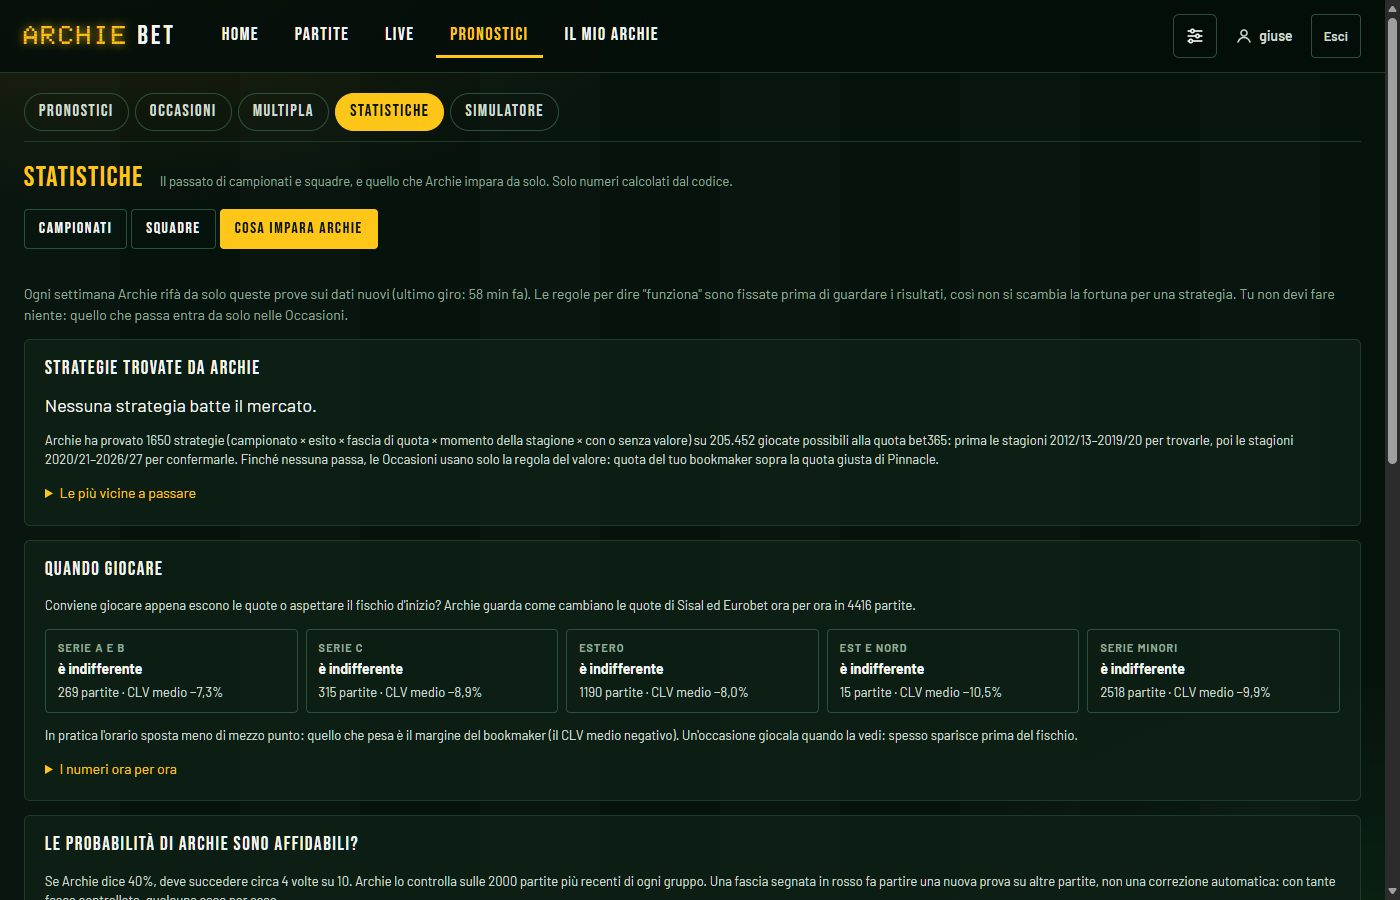
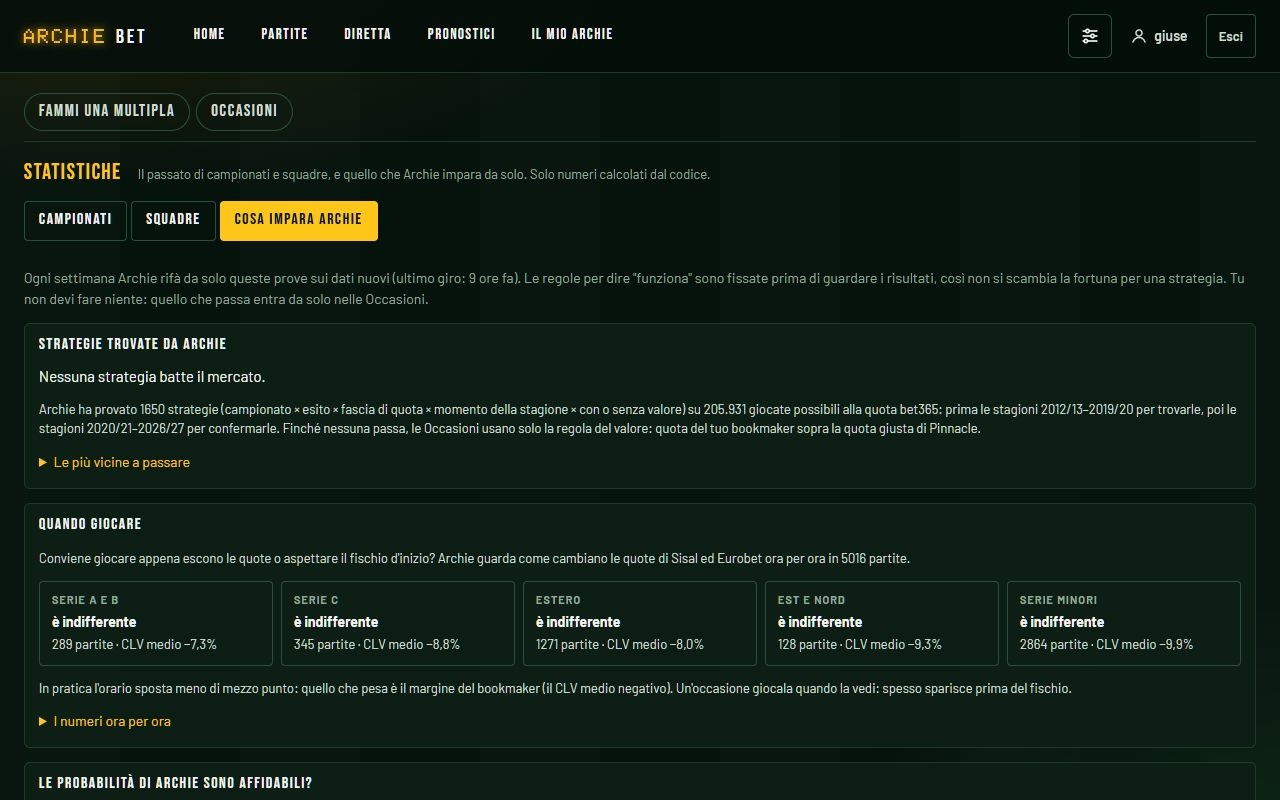
Match header always on one row and centred on every width, tidy numbers on phone; fresh screenshots and demo GIF; README numbers; demo setup runs the study; stop/restart scripts close every ArchieBet process

Changed region(s): [[0.0, 0.0, 1.0, 1.0], [0.7812, 0.6875, 0.9375, 0.8125], [0.0, 0.0, 0.125, 0.0625]]

diff --git a/frontend/src/app/pages/match/match.html b/frontend/src/app/pages/match/match.html
@@ -21,7 +21,7 @@
     </div>
 
     <div class="center">
-      <div class="label comp"><ab-league-logo [code]="m.competition.code" [size]="20" /> {{ m.competition.name }} · {{ m.season }}</div>
+      <div class="label comp"><ab-league-logo [code]="m.competition.code" [size]="20" /> {{ m.competition.name }}<span class="season"> · {{ m.season }}</span></div>
       @if (m.live; as l) {
         <div class="live-head"><span class="pulse" aria-hidden="true"></span> LIVE · {{ fmt.liveLabel(l) }}</div>
         <div class="led big-score live" [attr.aria-label]="'In corso, ' + l.home_goals + ' a ' + l.away_goals">{{ l.home_goals }}-{{ l.away_goals }}</div>
@@ -76,9 +76,9 @@
             <span class="title card-label">{{ c.sel }} · {{ c.name }}</span>
             <span class="led card-pct">{{ c.pct }}</span>
             <span class="muted card-sub">
-              quota giusta {{ c.fair }}
+              <span class="nowrap"><span class="long">quota </span>giusta {{ c.fair }}</span>
               @if (c.market) {
-                · mercato {{ c.market }}
+                <span class="nowrap"><span class="sep">·</span> mercato {{ c.market }}</span>
               }
             </span>
           </div>
@@ -118,7 +118,7 @@
               <span class="led sugg-pct">{{ fmt.pct(s.leg.p_archie) }}</span>
               <span class="sugg-offer">
                 @for (o of priceList(s.leg); track o[0]) {
-                  <span>quota {{ fmt.odds(o[1]) }} · {{ o[0] }}</span>
+                  <span>{{ o[0] }} <strong>{{ fmt.odds(o[1]) }}</strong></span>
                 } @empty {
                   <span class="muted small">quota da cercare sull'app · giusta secondo lo studio {{ fmt.odds(1 / s.leg.p_archie) }}</span>
                 }

diff --git a/frontend/src/app/pages/match/match.scss b/frontend/src/app/pages/match/match.scss
@@ -29,10 +29,9 @@
 
 /* Intestazione: righe verticali come un campo, in attesa delle foto degli stadi */
 .header {
-  display: flex;
-  flex-wrap: wrap;
+  display: grid; /* casa · risultato · ospite sempre sulla stessa riga */
+  grid-template-columns: minmax(0, 1fr) auto minmax(0, 1fr);
   align-items: center;
-  justify-content: space-between;
   gap: 24px;
   padding: 32px;
   border: 1px solid var(--line);
@@ -890,9 +889,19 @@ tr.absent td {
     font-size: 9px;
   }
   .center {
-    flex: 0 0 auto;
-    max-width: 44%;
+    justify-self: center; /* sempre in mezzo: casa e ospite alla stessa distanza */
     gap: 4px;
+  }
+  .season {
+    display: none; /* sul telefono basta il campionato */
+  }
+  .live-head {
+    font-size: 10px;
+    letter-spacing: 0.5px;
+  }
+  .live-probs {
+    gap: 6px;
+    font-size: 11px;
   }
   .comp {
     font-size: 9px;
@@ -930,4 +939,34 @@ tr.absent td {
   flex-wrap: wrap;
   gap: 6px 14px;
   margin: 0 0 12px;
+}
+
+/* Al centro dell'intestazione i numeri non vanno mai a capo, a qualsiasi larghezza */
+.big-time,
+.big-score,
+.live-head,
+.live-probs,
+.when {
+  white-space: nowrap;
+}
+.comp {
+  justify-content: center;
+  flex-wrap: wrap;
+  text-align: center;
+}
+.card-sub .nowrap {
+  white-space: nowrap;
+}
+@media (max-width: 600px) {
+  .card-sub {
+    display: flex;
+    flex-direction: column; /* quota giusta e mercato su due righe ordinate */
+  }
+  .card-sub .sep,
+  .card-sub .long {
+    display: none;
+  }
+}
+.card-sub .sep {
+  margin: 0 3px 0 4px;
 }

diff --git a/backend/app/cli.py b/backend/app/cli.py
@@ -81,6 +81,9 @@ def _demo_setup(first_season: int) -> int:
         _sync("football-data", first_season)
     with SessionLocal() as db:
         print(f"Previsioni aggiornate: {refresh_predictions(db, datetime.now(UTC), force=True)}")
+        from app.forecast.study_service import refresh_studies
+
+        print(f"Partite studiate per Fammi una multipla: {refresh_studies(db, datetime.now(UTC))}")
     return 0
 
 

diff --git a/README.en.md b/README.en.md
@@ -7,7 +7,7 @@
 ![FastAPI](https://img.shields.io/badge/FastAPI-0.143-009688?logo=fastapi&logoColor=white)
 ![Angular](https://img.shields.io/badge/Angular-22-DD0031?logo=angular&logoColor=white)
 ![Docker](https://img.shields.io/badge/Docker-compose-2496ED?logo=docker&logoColor=white)
-![Tests](https://img.shields.io/badge/tests-469%20backend%20%2B%2029%20frontend-brightgreen)
+![Tests](https://img.shields.io/badge/tests-497%20backend%20%2B%2029%20frontend-brightgreen)
 
 🇮🇹 [Versione italiana](README.md)
 
@@ -28,9 +28,9 @@ but **every number is computed by code**.
 |---|---|
 | **Problem** | Find out, with a sound method, whether and where a model or a piece of information beats a very efficient market |
 | **Solution** | FastAPI backend with 6 data sources and statistical models (Dixon-Coles, Elo, Shin de-margining, negative binomial, in-play Poisson, Monte Carlo), Angular 22 frontend |
-| **Method** | 139 documented decisions; every hypothesis tested with rules written before looking at the data, tuning and confirmation on separate periods, match-clustered standard errors |
+| **Method** | 149 documented decisions; every hypothesis tested with rules written before looking at the data, tuning and confirmation on separate periods, match-clustered standard errors |
 | **Outcome** | One edge confirmed on historical data (CLV +2.5% ± 0.3 over 734 cases), now under live verification; dozens of hypotheses rejected and documented |
-| **Quality** | 498 automated tests, GitHub Actions CI, Alembic migrations, one-command Docker start |
+| **Quality** | 526 automated tests, GitHub Actions CI, Alembic migrations, one-command Docker start |
 
 ## Try it in 2 minutes (Docker)
 
@@ -41,15 +41,27 @@ docker compose up --build
 ```
 
 Open **http://localhost:8080** and log in with **demo / archiebet-demo**. Without API keys the app downloads the free
-football-data.co.uk history (10 leagues, since 2023): statistics, match pages, Archie's forecasts, simulator.
-Live odds, in-play data, news and AI are enabled by adding keys to `backend/.env` (see `.env.example`).
+football-data.co.uk history (10 leagues, since 2023): statistics, match pages, Archie's forecasts, simulator and
+**Build me a multiple** on upcoming matches. Live odds, live scores, news and AI are enabled by adding keys to
+`backend/.env` (see `.env.example`). There is no online demo on purpose: the app is for private use and does not
+publish forecasts or odds on open pages.
 
 ## Why it is interesting
 
 - **Method before results.** A factor enters the model only if a test *written before looking at the data* shows it improves forecasts. Multi-hypothesis searches (e.g. 1,650 automatically generated strategies) use a stricter tuning threshold and confirmation on separate seasons, so that chance is not mistaken for a discovery.
 - **Negative results reported.** Weather, rest days, coaching changes, line-ups, "style match-ups", automated strategies, lower leagues in 23 countries: they do not beat the market, and the numbers are in the [decision log](docs/DECISIONI.md).
 - **The right metrics.** Probability calibration, paired log loss, **closing-line value** (taken price vs. fair closing price). Short-term profit is not a metric.
-- **Full-stack engineering.** Data-source adapters with caching and request quotas, scheduled jobs, 55 REST endpoints, 26 tables, session authentication, AI with a spending cap enforced in code, signal-based frontend with lazy-loaded routes.
+- **Full-stack engineering.** Data-source adapters with caching and request quotas, scheduled jobs, 59 REST endpoints, 26 tables, session authentication, AI with a spending cap enforced in code, signal-based frontend with lazy-loaded routes.
+
+## Screenshots
+
+| Build me a multiple | Match page |
+|---|---|
+| ![Build me a multiple](docs/screenshots/fammi-una-multipla.jpg) | ![Match page](docs/screenshots/pagina-partita.jpg) |
+| **Live scores** | **What Archie learns** |
+| ![Live](docs/screenshots/diretta.jpg) | ![What Archie learns](docs/screenshots/cosa-impara-archie.jpg) |
+| **On the phone (installable app)** | **League statistics** |
+| ![Phone](docs/screenshots/telefono-multipla.jpg) | ![Statistics](docs/screenshots/statistiche-campionati.jpg) |
 
 ## Architecture
 
@@ -68,7 +80,7 @@ flowchart LR
     DB[(SQLite / PostgreSQL<br/>SQLAlchemy + Alembic)]
     FC[Forecasts and experiments<br/>Dixon-Coles, Elo, Shin,<br/>negative binomial, Poisson]
     AI[Single AI module<br/>Claude, spending cap]
-    API[REST API · 55 endpoints]
+    API[REST API · 59 endpoints]
   end
   FE[Frontend · Angular 22]
   Sources --> AD --> JOB --> DB
@@ -98,7 +110,7 @@ implementing under explicit rules.
 
 - **My part:** requirements and specifications, product decisions and priorities, non-negotiable statistical principles, approval of every decision, hands-on validation of the app, review of experiment results.
 - **Rules given to the assistant** ([CLAUDE.md](CLAUDE.md)): every calculation has a test; no look-ahead data; a factor enters only if a historical test justifies it; numbers come from code, never from the AI; secrets only in `.env`; small, documented commits.
-- **Checks:** 498 automated tests and CI on every push; every decision logged with its rationale; heavy experiments run on database copies; progress tracked phase by phase.
+- **Checks:** 526 automated tests and CI on every push; every decision logged with its rationale; heavy experiments run on database copies; progress tracked phase by phase.
 - **Commits** written with the assistant carry the `Co-Authored-By: Claude` trailer.
 
 A goal of the project was also to learn how to lead AI-assisted development professionally: define the problem well,

diff --git a/README.md b/README.md
@@ -7,7 +7,7 @@
 ![FastAPI](https://img.shields.io/badge/FastAPI-0.143-009688?logo=fastapi&logoColor=white)
 ![Angular](https://img.shields.io/badge/Angular-22-DD0031?logo=angular&logoColor=white)
 ![Docker](https://img.shields.io/badge/Docker-compose-2496ED?logo=docker&logoColor=white)
-![Test](https://img.shields.io/badge/test-469%20backend%20%2B%2029%20frontend-brightgreen)
+![Test](https://img.shields.io/badge/test-497%20backend%20%2B%2029%20frontend-brightgreen)
 
 🇬🇧 [English version](README.en.md)
 
@@ -26,9 +26,9 @@ sempre il codice**.
 |---|---|
 | **Problema** | Capire, con metodo, se e dove un modello o un'informazione batte le quote di un mercato molto efficiente |
 | **Soluzione** | Backend FastAPI con 6 fonti dati, modelli statistici (Dixon-Coles, Elo, Shin, binomiale negativa, Poisson live, Monte Carlo), frontend Angular 22 |
-| **Metodo** | 139 decisioni documentate; ogni ipotesi provata con regole scritte prima di vedere i dati, taratura e conferma su periodi separati, errori standard per partita |
+| **Metodo** | 149 decisioni documentate; ogni ipotesi provata con regole scritte prima di vedere i dati, taratura e conferma su periodi separati, errori standard per partita |
 | **Risultato** | Un solo vantaggio confermato sullo storico (CLV +2,5% ± 0,3 su 734 casi), in verifica dal vivo; decine di ipotesi scartate e documentate |
-| **Qualità** | 498 test automatici, CI su GitHub Actions, migrazioni Alembic, avvio con Docker in un comando |
+| **Qualità** | 526 test automatici, CI su GitHub Actions, migrazioni Alembic, avvio con Docker in un comando |
 
 ## Provalo in 2 minuti (Docker)
 
@@ -40,22 +40,26 @@ docker compose up --build
 
 Apri **http://localhost:8080** ed entra con **demo / archiebet-demo**. Senza chiavi API l'app scarica lo storico
 gratuito di football-data.co.uk (10 campionati, dal 2023): statistiche, pagine partita, previsioni di Archie,
-simulatore. Quote attuali, live, notizie e AI si attivano aggiungendo le chiavi in `backend/.env` (vedi `.env.example`).
+simulatore e **Fammi una multipla** sulle partite in programma. Quote attuali, Diretta, notizie e AI si attivano
+aggiungendo le chiavi in `backend/.env` (vedi `.env.example`). Non c'è una demo online di proposito: l'app è a uso
+privato e non pubblica pronostici né quote su pagine aperte a tutti.
 
 ## Perché è interessante
 
 - **Metodo prima dei risultati.** Un fattore entra nel modello solo se una prova *scritta prima di guardare i dati* dimostra che migliora le previsioni. Le prove con molte ipotesi (es. 1.650 strategie generate in automatico) usano una soglia più severa in taratura e una conferma su stagioni separate, per non scambiare il caso per una scoperta.
 - **Risultati negativi dichiarati.** Meteo, riposo, cambio allenatore, formazioni, "incastri di stile", strategie automatiche, serie minori di 23 paesi: non battono il mercato, ed è scritto nel [registro delle decisioni](docs/DECISIONI.md) con i numeri.
 - **Misure corrette.** Calibrazione delle probabilità, log loss appaiata, **CLV** (quota presa rispetto alla quota giusta di chiusura). I soldi vinti in una settimana non sono una misura.
-- **Ingegneria completa.** Adattatori con cache e quote di richieste, job pianificati, 55 endpoint REST, 26 tabelle, autenticazione a sessione, AI con tetto di spesa controllato dal codice, frontend a signal con caricamento pigro delle pagine.
+- **Ingegneria completa.** Adattatori con cache e quote di richieste, job pianificati, 59 endpoint REST, 26 tabelle, autenticazione a sessione, AI con tetto di spesa controllato dal codice, frontend a signal con caricamento pigro delle pagine.
 
 ## Schermate
 
-| Statistiche dei campionati | Cosa impara Archie |
+| Fammi una multipla | Pagina partita |
 |---|---|
-| ![Statistiche](docs/screenshots/statistiche-campionati.jpg) | ![Cosa impara Archie](docs/screenshots/cosa-impara-archie.jpg) |
-| **Pagina partita** | **Storia di una squadra** |
-| ![Pagina partita](docs/screenshots/pagina-partita.jpg) | ![Storia squadra](docs/screenshots/storia-squadra.jpg) |
+| ![Fammi una multipla](docs/screenshots/fammi-una-multipla.jpg) | ![Pagina partita](docs/screenshots/pagina-partita.jpg) |
+| **Diretta** | **Cosa impara Archie** |
+| ![Diretta](docs/screenshots/diretta.jpg) | ![Cosa impara Archie](docs/screenshots/cosa-impara-archie.jpg) |
+| **Sul telefono (app installabile)** | **Statistiche dei campionati** |
+| ![Telefono](docs/screenshots/telefono-multipla.jpg) | ![Statistiche](docs/screenshots/statistiche-campionati.jpg) |
 
 ## Funzioni
 
@@ -85,7 +89,7 @@ flowchart LR
     DB[(SQLite / PostgreSQL<br/>SQLAlchemy + Alembic)]
     FC[Previsioni e prove<br/>Dixon-Coles, Elo, Shin,<br/>binomiale negativa, Poisson]
     AI[Modulo AI unico<br/>Claude, tetto di spesa]
-    API[API REST · 55 endpoint]
+    API[API REST · 59 endpoint]
   end
   FE[Frontend · Angular 22]
   Fonti --> AD --> JOB --> DB

diff --git a/docs/DOCUMENTO-TECNICO.md b/docs/DOCUMENTO-TECNICO.md
@@ -54,7 +54,7 @@ flowchart TB
 | `forecast/` | Modelli e prove: Dixon-Coles, Elo, rimozione del margine, radar delle occasioni, modelli dei conteggi, live, simulatore, ricerca delle strategie, quando giocare |
 | `betting/` | Schedine, chiusura automatica, CLV, autopsie, regolamento personale |
 | `ai/` | Client Claude con output strutturato (Pydantic), strumenti per "Chiedi ad Archie", estrazione di fatti dalle notizie |
-| `api/` | 55 endpoint REST divisi per area |
+| `api/` | 59 endpoint REST divisi per area |
 | `jobs.py` | Aggiornamento dati ogni 6 ore, live ogni minuto, notizie ogni 2 ore, archivio quote e "cosa impara Archie" ogni settimana |
 | `cli.py` | Comandi per sincronizzazioni e per le prove statistiche (`backtest`, `strategy-search`, `timing-test`, ...) |
 
@@ -154,7 +154,7 @@ spesa** che registra ogni chiamata e blocca oltre il tetto mensile. Usi:
 
 ## 7. Qualità
 
-- **469 test backend** (pytest) e **29 test frontend** (Vitest): ogni calcolo di probabilità, quota, valore o guadagno ha un test (anche casi limite trovati a mano, es. arrotondamenti).
+- **497 test backend** (pytest) e **29 test frontend** (Vitest): ogni calcolo di probabilità, quota, valore o guadagno ha un test (anche casi limite trovati a mano, es. arrotondamenti).
 - **Test delle API** con database in memoria e client autenticato; adattatori provati con risposte registrate, senza rete.
 - **CI** su GitHub Actions a ogni push (`.github/workflows/ci.yml`): test del backend, build e test del frontend, build delle immagini Docker.
 - **Docker**: `docker compose up --build` avvia backend (FastAPI) e frontend (build Angular servita da nginx, che inoltra `/api`), con un utente dimostrativo e lo storico gratuito di football-data, senza chiavi API.

diff --git a/docs/STATO.md b/docs/STATO.md
@@ -17,7 +17,7 @@ Ultimo aggiornamento: 2026-10-27
 - [x] **Notizie, classifica e meteo** nello studio (D138), notizie per partita in Partite.
 - [x] **Pagella dei pronostici studiati** e pulizia dei testi (D139); Partite con tendine; Pronostici con due sole schede; gol annullati dal VAR.
 - [x] **Libro di studio** del progetto (`docs/libro/`, 13 capitoli con esempi verificati e domande di ripasso).
-- Test: 469 backend + 29 frontend, tutti verdi.
+- Test: 497 backend + 29 frontend, tutti verdi (2026-10-27).
 
 ## Telefono, gol per squadra, Draw No Bet (2026-10-22)
 
